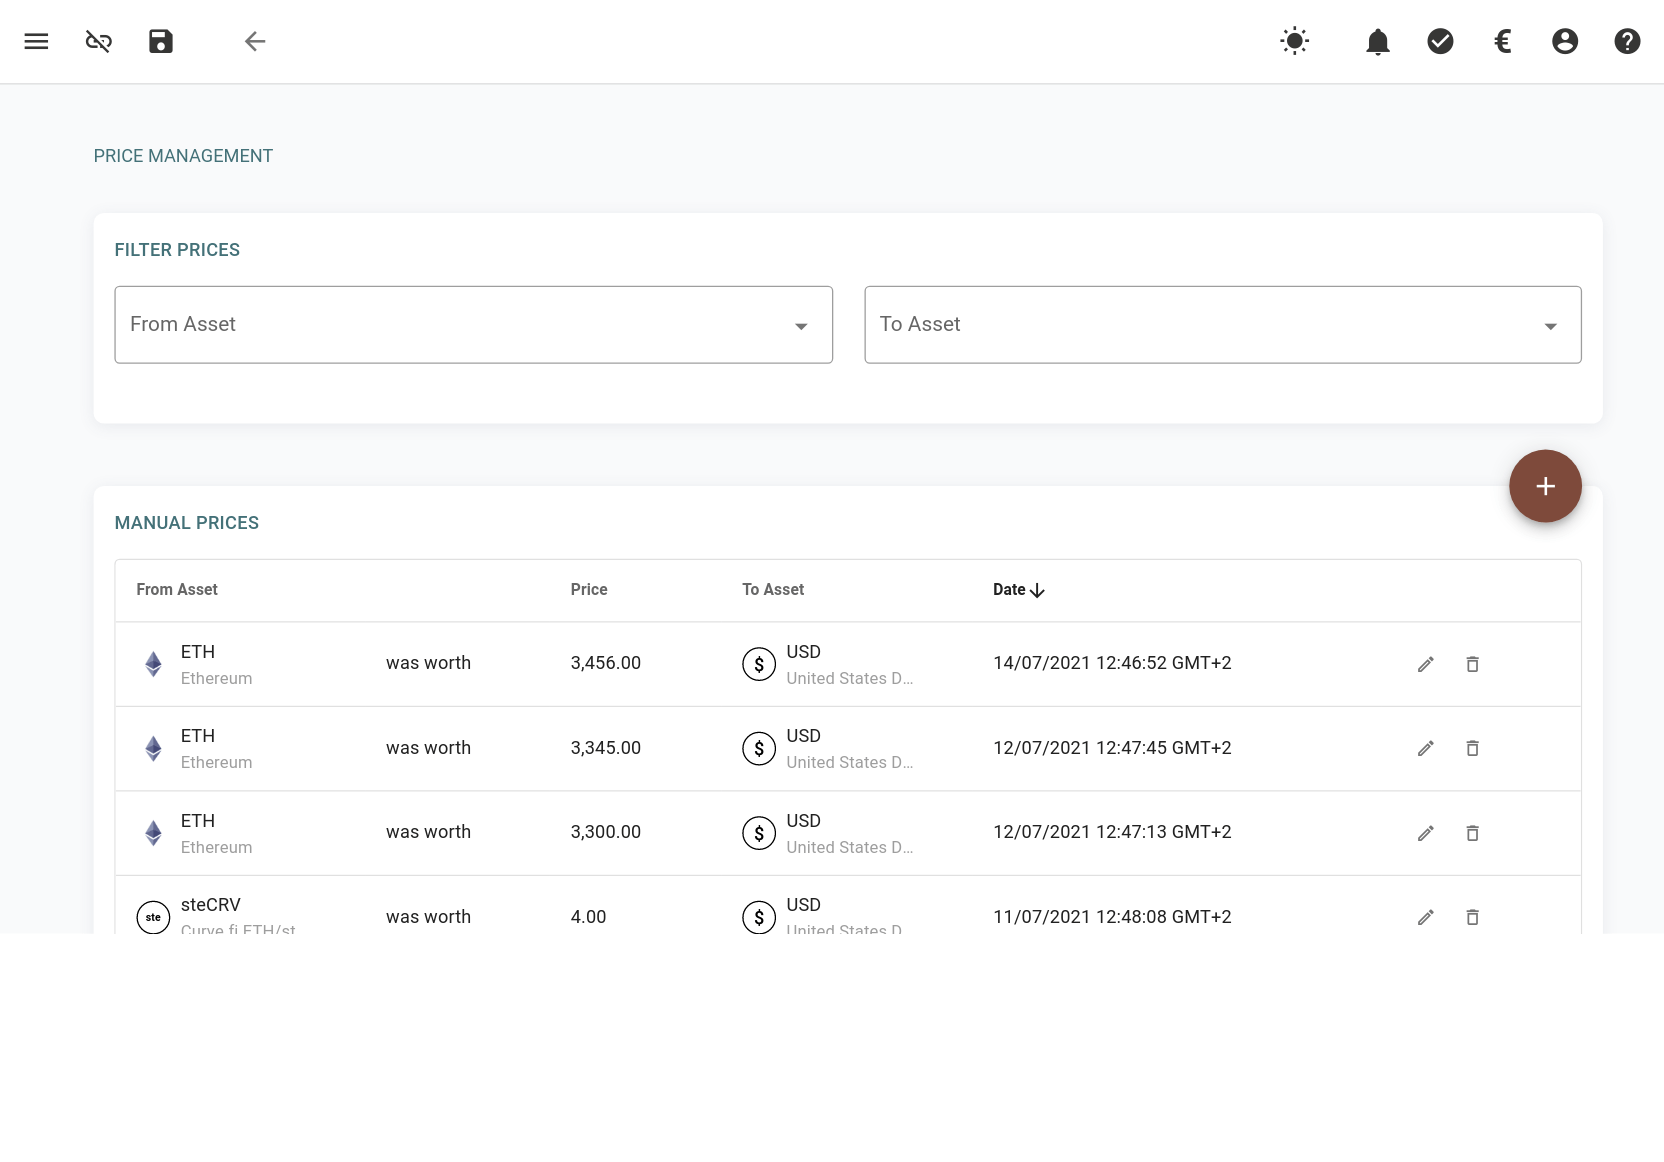
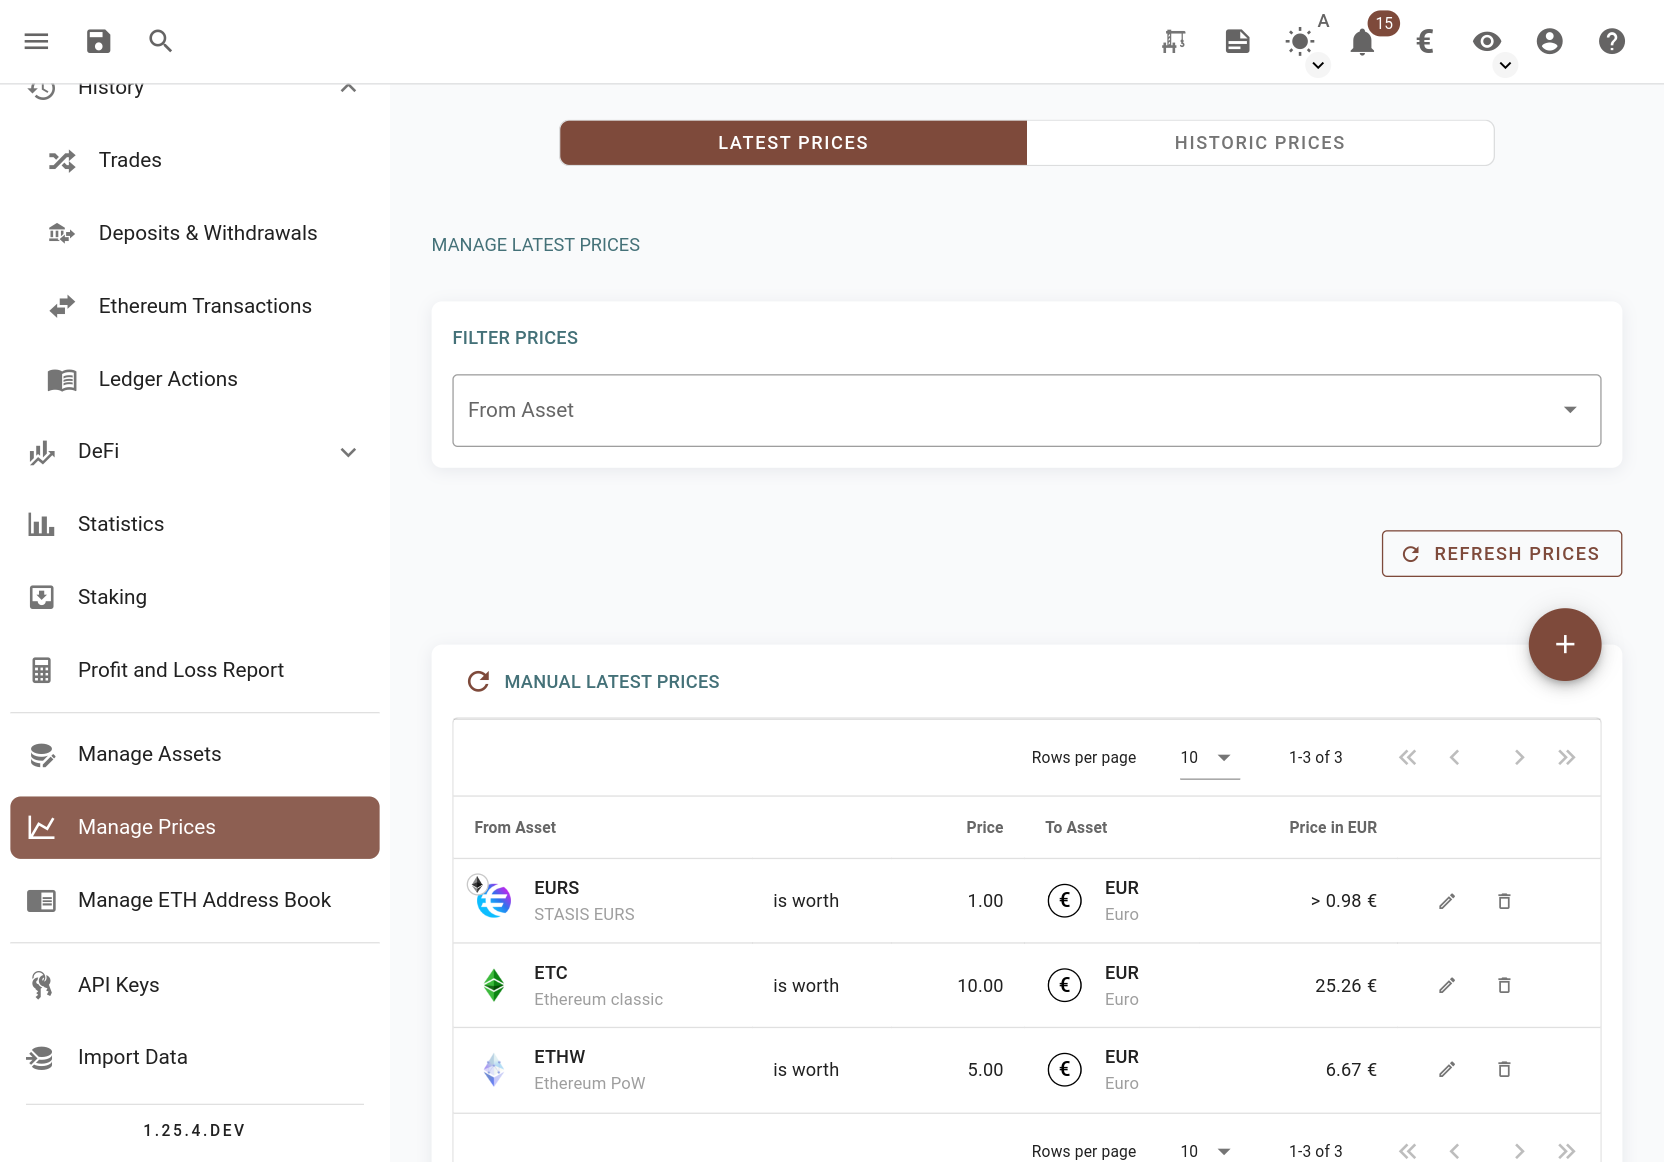
Update prices section in docs
Add prices and removed dex trades

diff --git a/docs/usage_guide.rst b/docs/usage_guide.rst
@@ -830,6 +830,15 @@ rotki automatically resolves ens name for each of your ethereum accounts. If the
    :alt: Example of resolving an ens name
    :align: center
 
+Token detection
+===============
+
+For every ethereum address it is possible to trigger the process of detecting tokens by clicking in the refresh arrow for that address. In addition it is possible to trigger the detection process for all the addresses by clicking on ``RE-DETECT TOKENS``.
+
+.. image:: images/tokens_detection.png
+   :alt: Detecting tokens
+   :align: center
+
 
 Ethereum Transactions
 =====================
@@ -1286,8 +1295,10 @@ You can also ignore assets by clicking asset icons anywhere on the app, that wil
 Adding missing prices
 **********************
 
-Sometimes rotki might be unable to retrieve a historical price for an asset from CoinGecko or CryptoCompare.
-In this case you can use the price management interface to insert your own price entries.
+Sometimes rotki might be unable to retrieve prices for some assets. In order to always have the ability to show a price we provide two types of manual price additions: ``Latest prices`` and ``Historical prices``.
+
+- Latest price: Will be the price displayed when we need to display the current price of an asset.
+- Historical price: The price used in a specific time in the past for an asset.
 
 .. image:: images/price_management.png
    :alt: Price management
@@ -1301,6 +1312,12 @@ To add a new price you have to press the plus button. This will open the add for
 
 There you can specify the assets, the price and the date of the price. Then you can proceed to save the entry.
 After saving you should be able to see the new entry.
+
+When a latest price is used it will be visually displayed in the UI.
+
+.. image:: images/latest_price.png
+   :alt: Edited latest price UI indicator
+   :align: center
 
 Decentralized Finance
 **********************
@@ -1357,11 +1374,15 @@ Finally you need to have a premium subscription in order for the total amount of
 Liquidity Pools
 ================
 
+.. image:: images/lps_in_dashboard.png
+  :alt: Defi LP positions in the dashboard
+  :align: center
+
+Rotki allows its users to keep track of their Liquidity Pools. An overview is available in the dashboard and it is also possible to get a per protocol view in the deposits section.
+
 .. image:: images/sc_decentralized_lp.png
   :alt: Defi Liquidity Pools
   :align: center
-
-Rotki allows its users to keep track of their Liquidity Pools.
 
 These are the supported Liquidity Pools balances by Rotki:
 
@@ -1381,7 +1402,6 @@ The liquidity pool support allows premium users to see their balances, the per p
   :alt: Defi Liquidity Pools Summary on Dashboard
   :align: center
 
-These LP balances summary will also be shown on dashboard.
 
 Liabilities
 =============
@@ -1432,22 +1452,6 @@ Below you can see a small demonstration of the usage of makerdao vaults by a pre
 .. image:: images/vaults_premium_demo.gif
    :alt: Makerdao vaults premium demo
    :align: center
-
-DEX trades
-================
-
-.. image:: images/sc_dex_trades.png
-  :alt: DEX trades
-  :align: center
-
-In the DEX Trades section you can monitor all trades made in the supported decentralized exchanges. Each trade is also broken down to the separate swaps that it is comprised of.
-
-The currently supported DEXes are:
-
-- Uniswap v2
-- Uniswap v3
-- Balancer
-- Sushiswap
 
 Creating a profit/loss report
 *****************************
